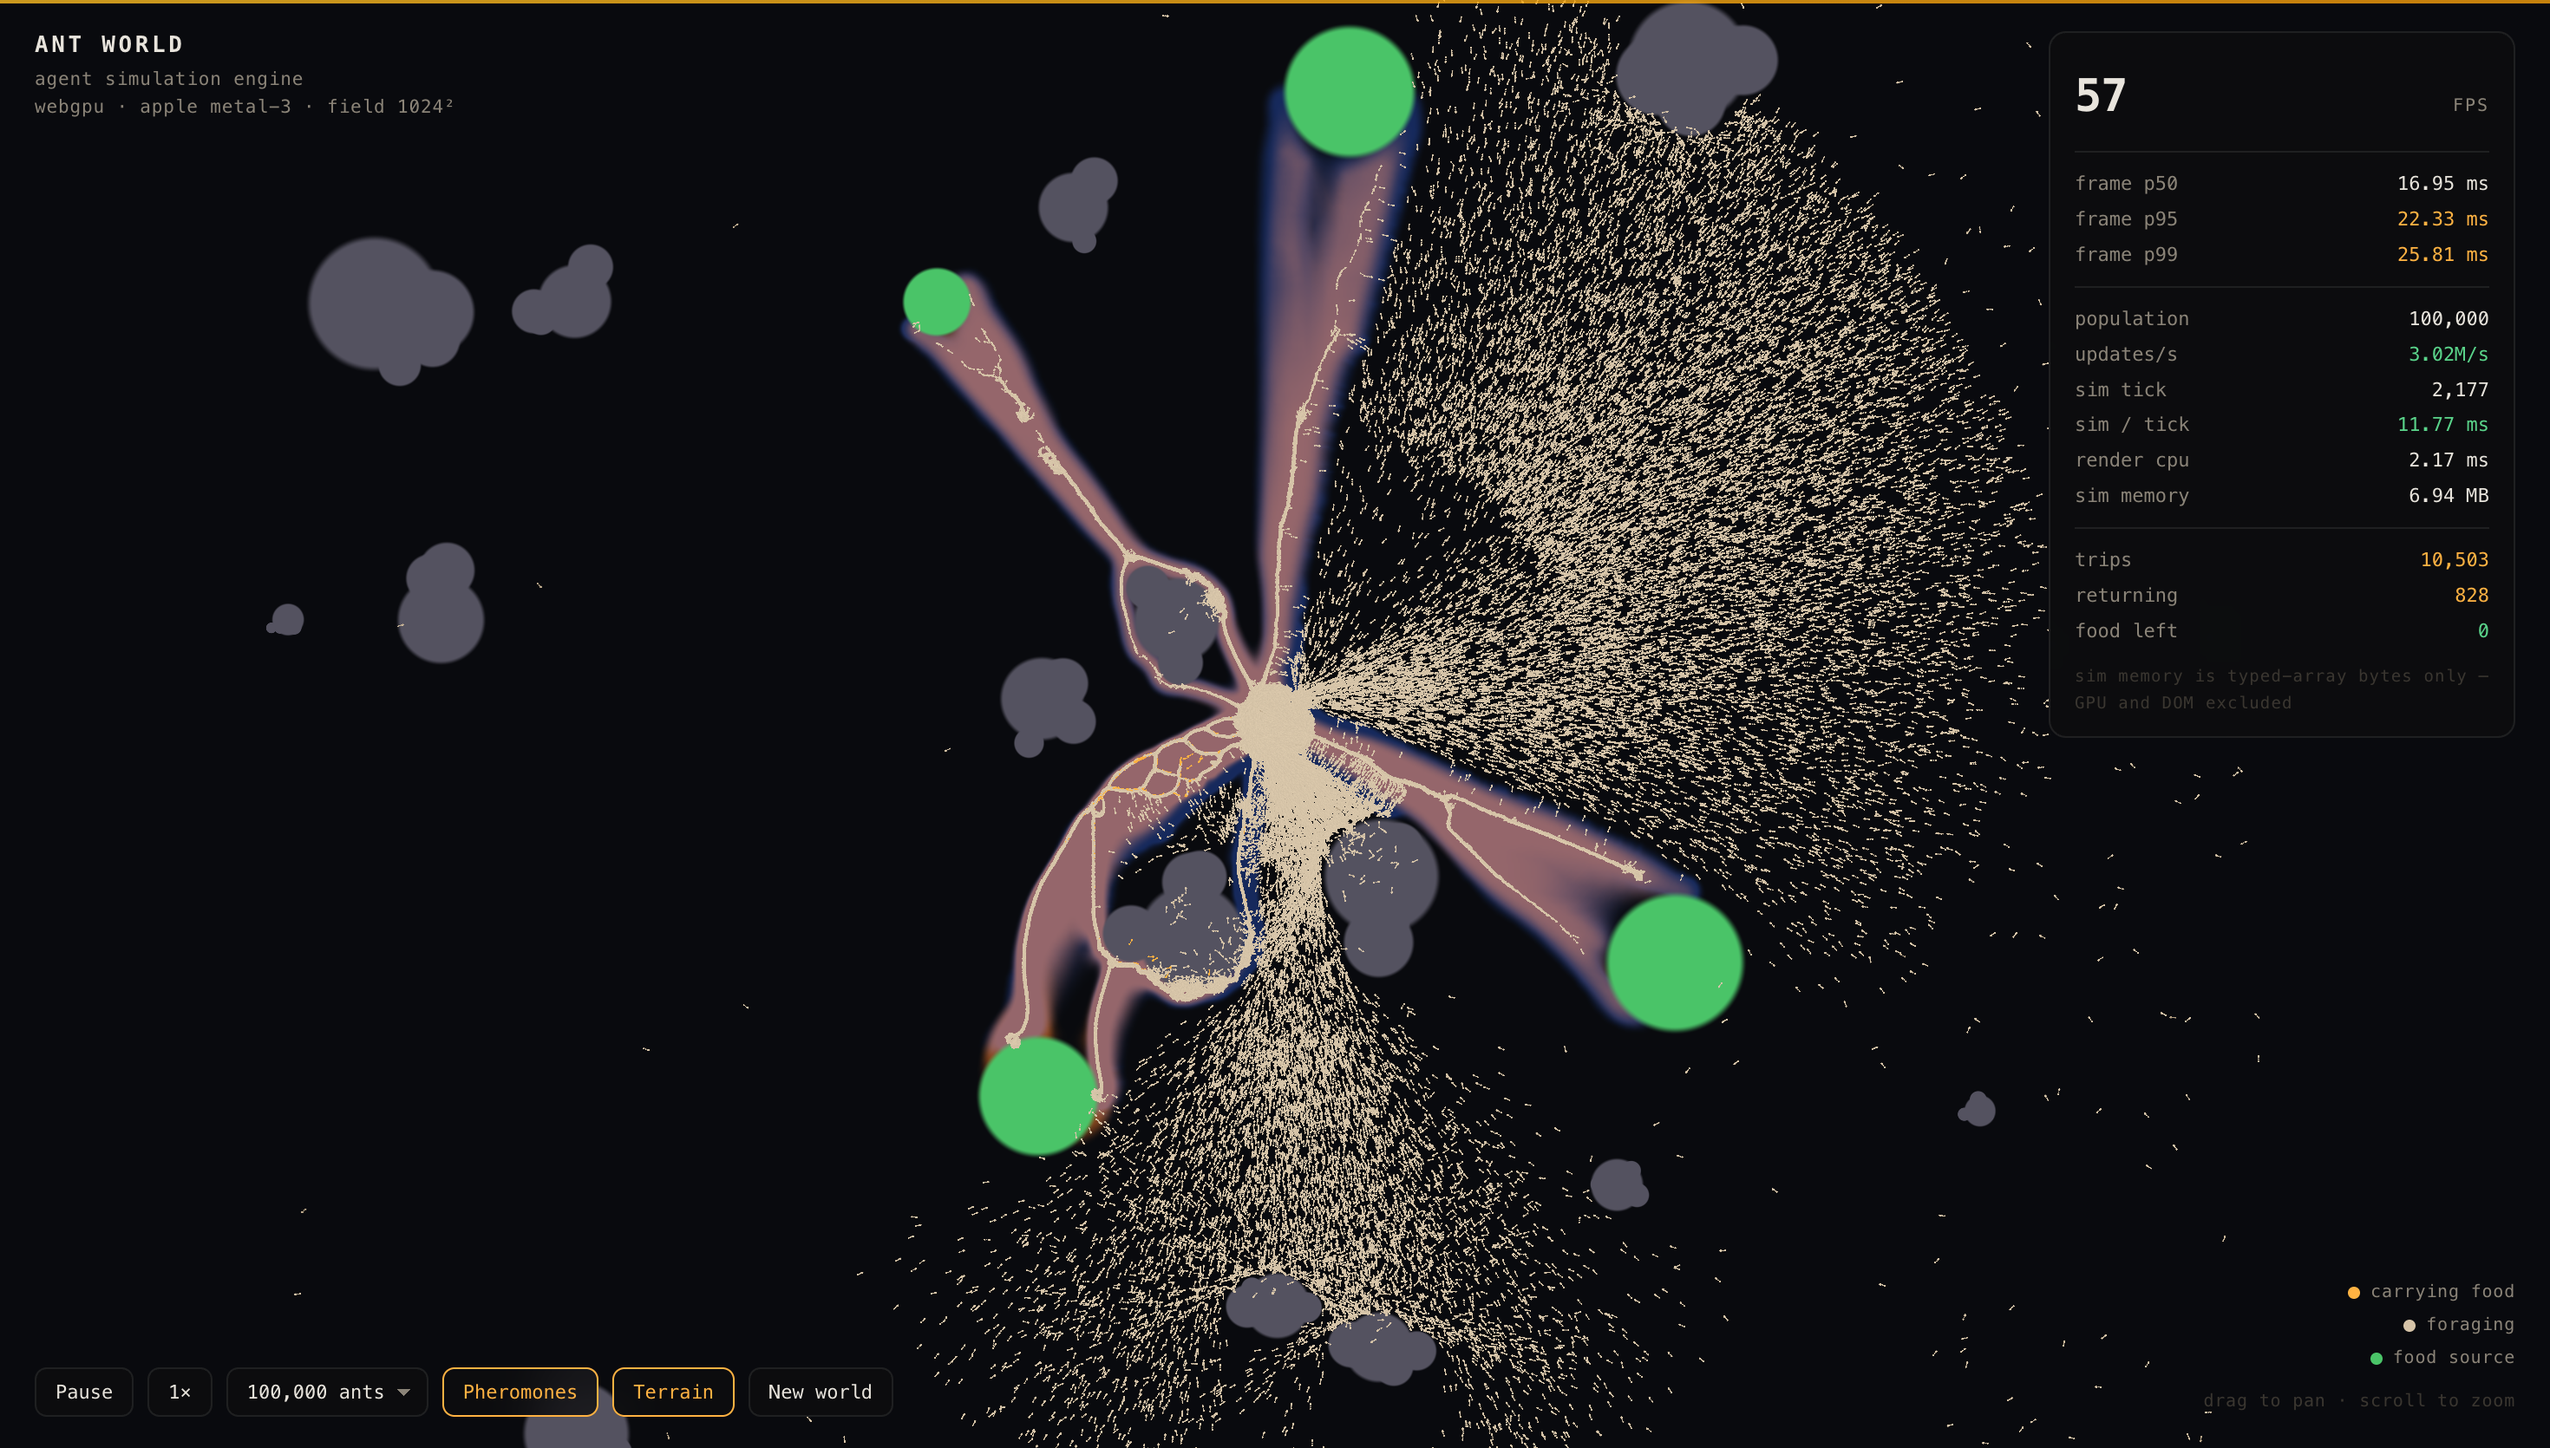
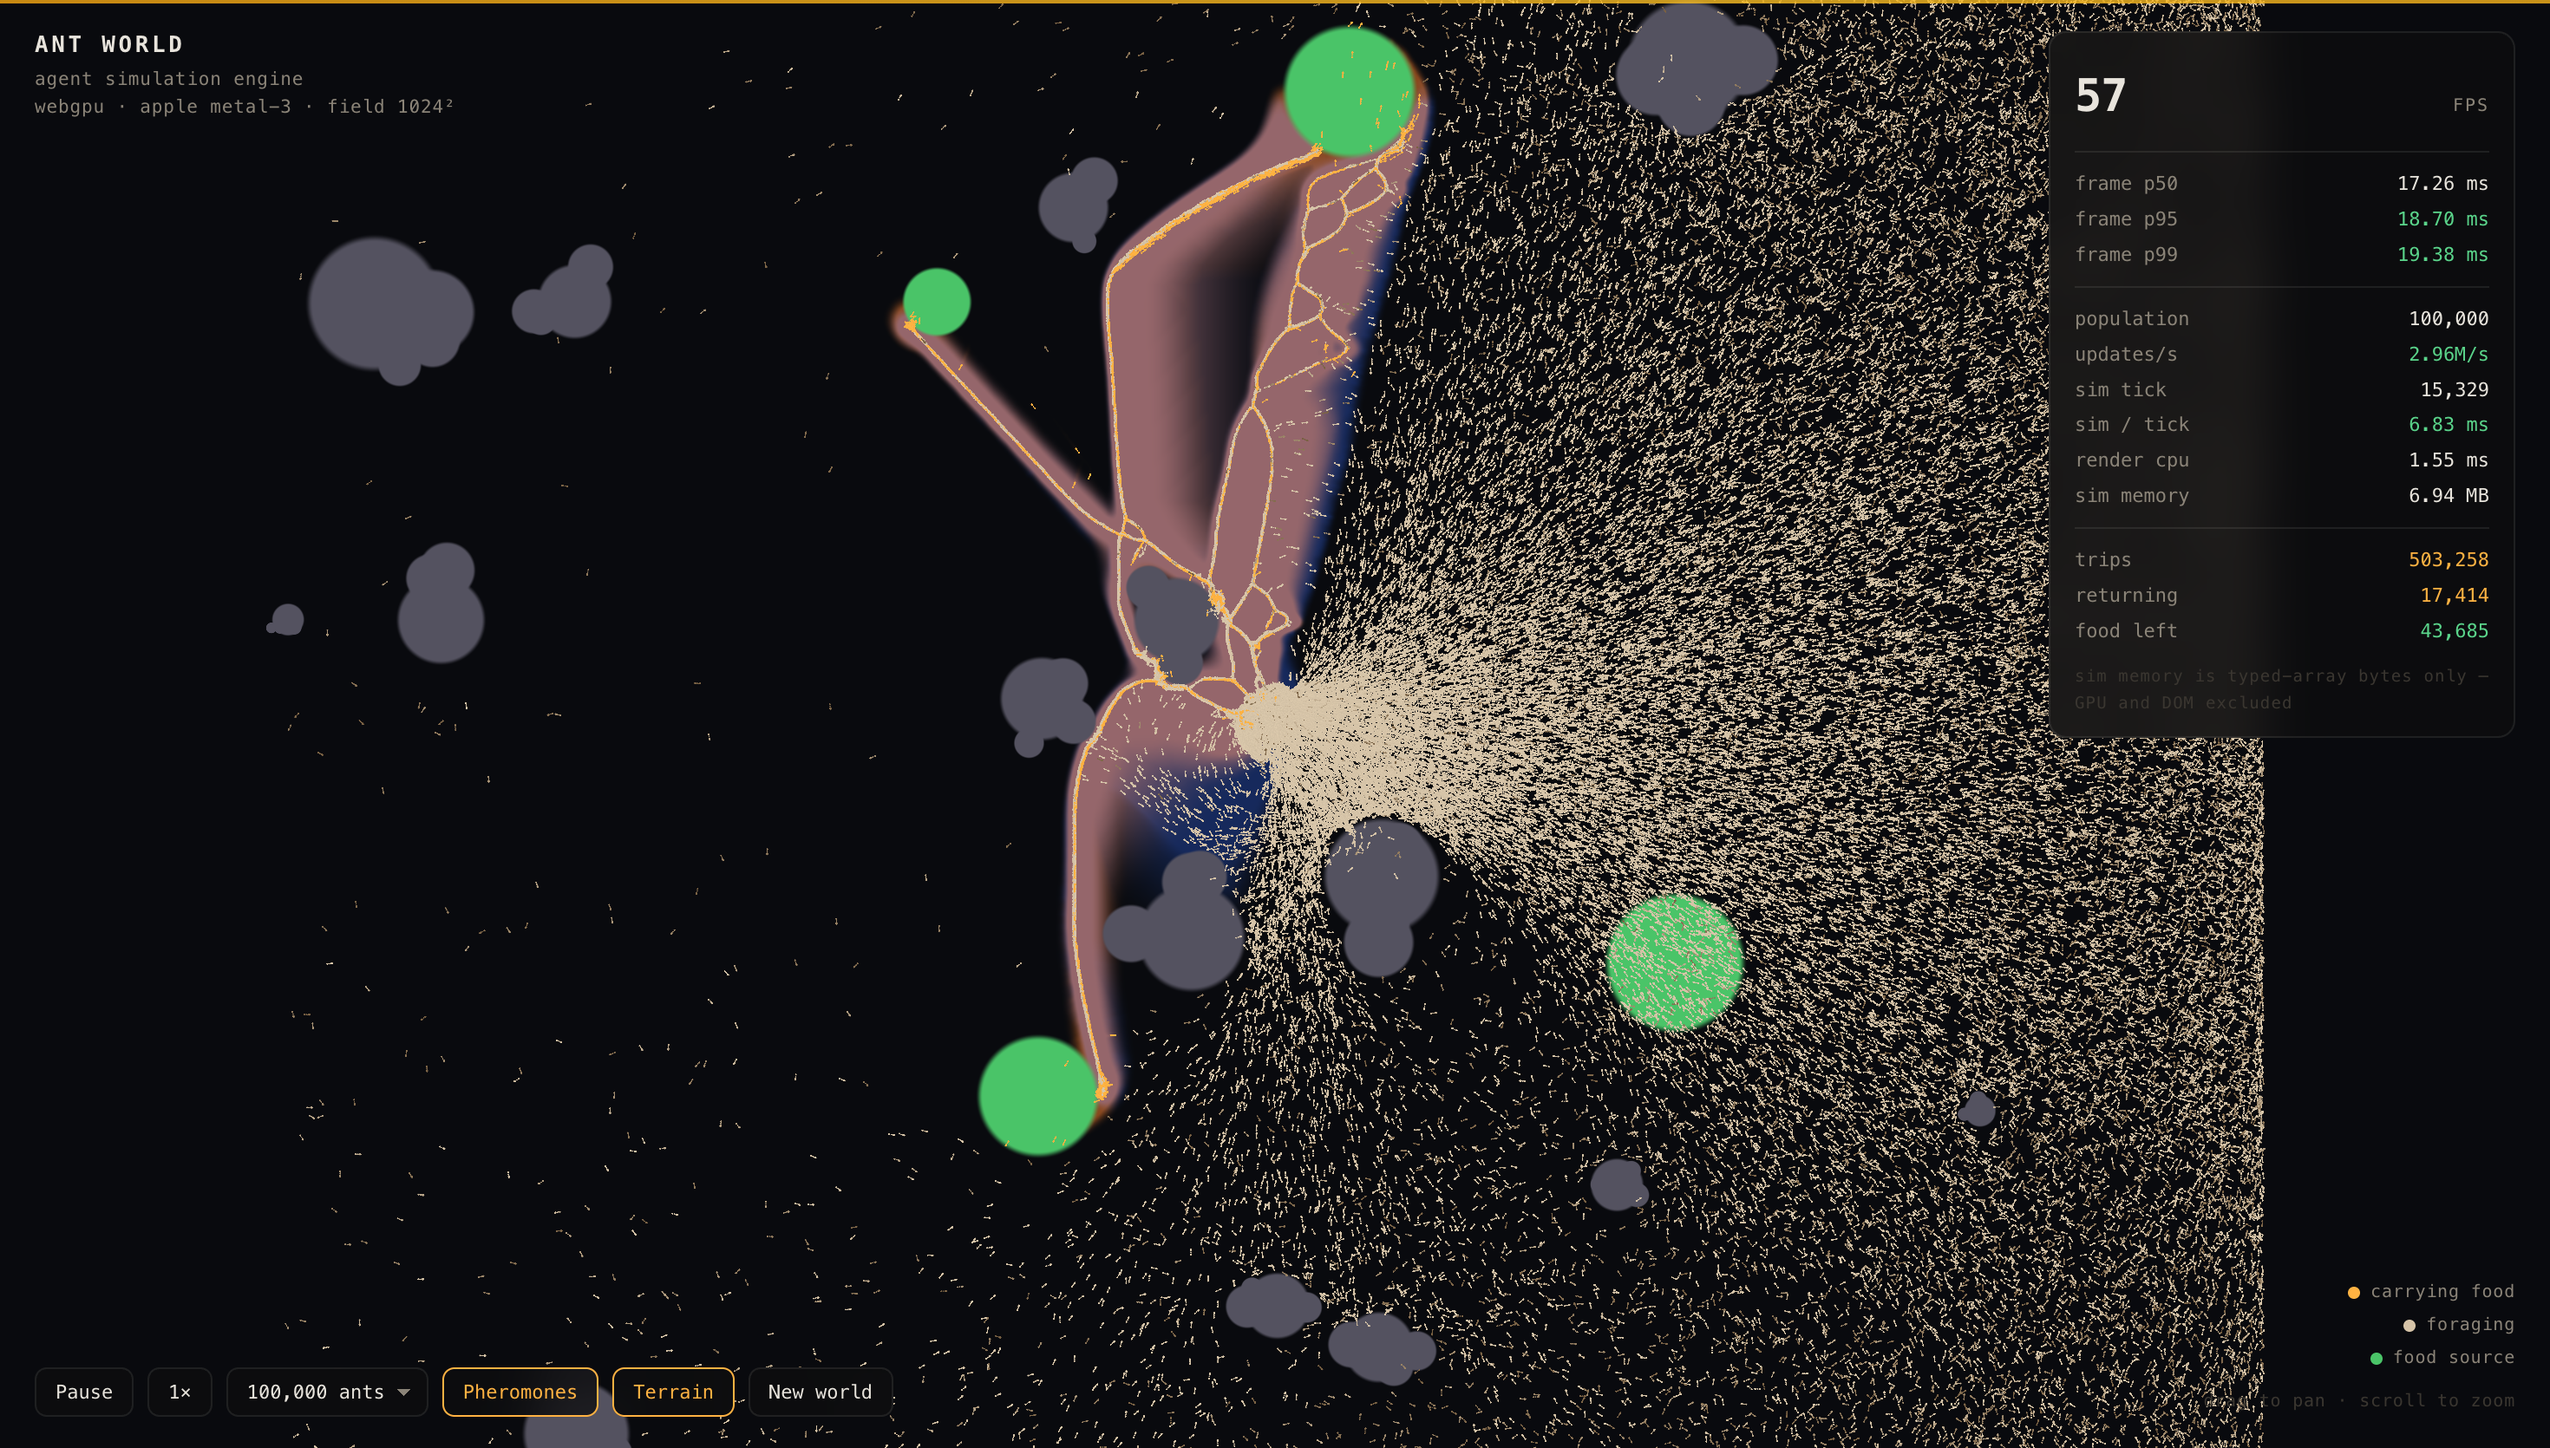
docs: record the M5 measurements and the energy bug honestly
In-browser at 100,000 agents, measured over 176 s (5,281 ticks) so the sample
is past the 1,600-tick energy cliff:
  57-60 fps, p50 16.7-17.3 ms, p95 17.3 ms, p99 18.5 ms
  sim 6.8-7.6 ms/tick against a 33.3 ms budget  (4.4x headroom)
  6.94 MB sim memory
  183,000 deliveries at 1,040/s, 74% of harvested food arriving

Corrects two claims from the previous commit:

- p95 was 22.33 ms when the energy bug was still present. Removing the per-tick
  starvation branch (a sin/cos respawn scatter) cut sim/tick from 11.8 ms to
  7.6 ms. At 100,000 agents, behaviour is a performance variable.
- Revivals are 685/s, not zero. The earlier "revivals 0" reading was taken at
  tick 1,401, before the 1,600-tick cliff, so nothing could have died yet. That
  measurement is recorded as a process note rather than quietly dropped.

Also documents that the 2.93M updates/s figure is the 30 Hz schedule being met
(100,000 x 30), not a capacity number -- sim/tick is the number that varies.

Screenshot replaced with the 503,000-trip state.

Changed region(s): [[0.3405, 0.0, 0.8976, 1.0], [0.9595, 0.4048, 0.9905, 0.4359], [0.9286, 0.1246, 0.9595, 0.1557]]

diff --git a/BENCHMARKS.md b/BENCHMARKS.md
@@ -154,28 +154,44 @@ default; `--sep` / `--nosep` force it either way.
 ### M5 — in-browser, 100,000 agents
 
 Chrome, WebGPU on Apple Metal-3, `?seed=7&ants=100000`, headed window. Read from
-the HUD's own stats payload after ~70 s of simulation (2,177 ticks).
+the HUD's own stats payload after 176 s of simulation (5,281 ticks — long enough
+to pass the 1,600-tick energy cliff, which earlier samples did not).
 
 | Population | Backend | FPS | p50 | p95 | p99 | Sim/tick | Render | Sim mem | Updates/s |
 | --- | --- | --- | --- | --- | --- | --- | --- | --- | --- |
-| 100,000 | WebGPU | 57.4 | 16.95 ms | 22.33 ms | 25.81 ms | 11.77 ms | 2.17 ms | 6.94 MB | 3.02M |
+| 100,000 | WebGPU | 57–60 | 16.7–17.3 ms | 17.3 ms | 18.5 ms | 6.8–7.6 ms | 1.6 ms | 6.94 MB | 2.93M |
 | 10,000 | WebGPU | 60.0 | 16.67 ms | 17.07 ms | 17.55 ms | 2.88 ms | 0.25 ms | 1.41 MB | 0.30M |
+
+FPS is a range because it is sampled, not averaged over the session: across
+samples at 100,000 agents the p50 moved between 16.67 and 17.26 ms. Colony
+behaviour over one 176 s run: **183,000 deliveries**, 1,040/s, with 74% of all
+harvested food arriving at the nest (the rest still in transit).
+
+Colony behaviour over that run: **183,000 deliveries**, 1,040/s, with 74% of all
+harvested food arriving at the nest (the rest still in transit).
 
 Read this honestly:
 
-- **"3.02M updates/s" is a schedule being met, not a capacity.** The sim runs a
+- **"2.93M updates/s" is a schedule being met, not a capacity.** The sim runs a
   fixed 30 Hz, so `updates/s` at 100,000 agents is 100,000 × 30 by construction —
   it reads the same on a fast machine and a slow one. What actually varies is
-  `sim/tick`: 11.77 ms against a 33.3 ms budget, i.e. 2.8× headroom (~84 ticks/s
-  of capacity in-browser). The honest claim is "holds 30 Hz at 100,000 agents
-  with 2.8× headroom", not the 3M figure.
+  `sim/tick`: 7.6 ms against a 33.3 ms budget, i.e. **4.4× headroom** (~131
+  ticks/s of capacity in-browser). The honest claim is "holds 30 Hz at 100,000
+  agents with 4.4× headroom", not the 3M figure.
 - **Sim memory is 6.94 MB against a 10 MB budget**, and that number is the sum
   of every typed array the engine allocates, not an estimate.
-- **Frame p95 is 22.3 ms at 100K, i.e. ~45 fps, not 60.** The p50 holds the
-  16.7 ms line; the tail comes from simulation and render sharing one thread, so
-  a slow tick delays the frame behind it. This is the honest cost of the
-  single-worker design and it is the M4 argument for splitting the sim across
-  workers — not something to hide behind a good p50.
+- **Frames hold 60 fps at 100,000 agents**: p50 16.67 ms, p95 17.33 ms, p99
+  18.53 ms. An earlier run of the same commit measured p95 22.33 ms; the
+  difference is the energy fix removing the per-tick starvation branch (a
+  `sin`/`cos` respawn scatter), which cut `sim/tick` from 11.8 ms to 7.6 ms.
+  That is a useful reminder that at 100,000 agents, *behaviour* is a
+  performance variable.
+- **Revivals are 685/s at steady state** (120,654 over the run) — about 1.2
+  restarts per ant per three minutes. Lower is better and this is the clearest
+  remaining behaviour cost: those are ants that never found a source, dying at
+  the 1,600-tick energy cliff. Productive ants now persist, which took
+  deliveries from 188/s to 1,040/s, but the lost-ant churn is the next thing to
+  fix.
 - `updates/s` at 10,000 reads 0.30M because that *is* correct: 10,000 agents ×
   30 Hz. Colouring it green only at 3M/s — which is what the HUD did at first —
   marks a healthy 10K colony as failing. It is now coloured against whether the
@@ -231,6 +247,36 @@ into a milky smear of idle agents. The larder now scales with population
 (`FOOD_PER_ANT`), so the forage loop stays meaningful at every population. Worth
 recording because it is the failure mode of every "scale it up" demo: the
 constants that made 100 agents look alive are invisible at 100,000.
+
+**5. Energy refilled only on delivery, so most ants starved carrying food.**
+
+Spawn energy is 200 and decay is 1 per 8 ticks, so lifespan is 1,600 ticks. The
+far food sources sit over 1,300 world units from the nest. Any ant whose round
+trip outlasted its lifespan starved in transit and dropped its load — which at
+100,000 agents was most of the colony. Food left the sources and never arrived.
+
+Finding food now restores energy, because a forager standing on a food source has
+by definition eaten. Measured at 100,000 agents, before → after:
+
+| | Deliveries/s | Revivals/s | Food arriving |
+| --- | --- | --- | --- |
+| energy on delivery only | 188 | 1,483 | ~0% |
+| energy restored at food | 1,040 | 685 | 74% |
+
+Two process notes, because both nearly produced a false claim:
+
+- The first "revivals are now zero" reading was taken at tick 1,401 — **before**
+  the 1,600-tick cliff, so no ant could have died yet. It proved nothing. Check
+  the measurement window against the mechanism's timescale before believing a
+  clean result.
+- The matching unit test failed at 4,000 agents with 84% of ants recycling, which
+  looked like the fix not working. It was map luck: at low density most ants
+  never find a source at all. The test now asserts the mechanism (a laden ant
+  cannot be running on fumes) rather than colony economics.
+
+Revivals at 685/s are the clearest remaining behaviour cost: those are still ants
+that never found food, dying at the cliff. That is the next thing to fix, not
+something the energy change solved.
 
 ### Soak (1 hour)
 

diff --git a/README.md b/README.md
@@ -26,7 +26,7 @@ four emergent pheromone trails, no scripted paths.*
 | M2 V1 | 1,000 | ✅ |
 | M3 V2 | 10,000 | ✅ |
 | M4 V3 | 50,000 | ✅ |
-| M5 V4 north star | **100,000** | ✅ 3.02M updates/s · 11.8 ms/tick · 6.94 MB |
+| M5 V4 north star | **100,000** | ✅ 60 fps · 7.6 ms/tick · 6.94 MB |
 | M6 V5 exploration | 1,000,000 | — |
 
 Live numbers live in [BENCHMARKS.md](./BENCHMARKS.md). The plan and its
